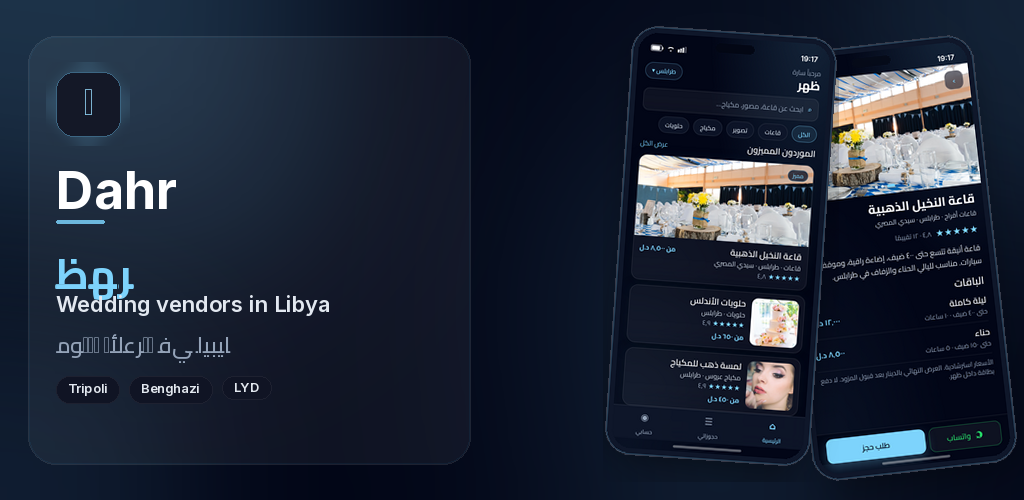
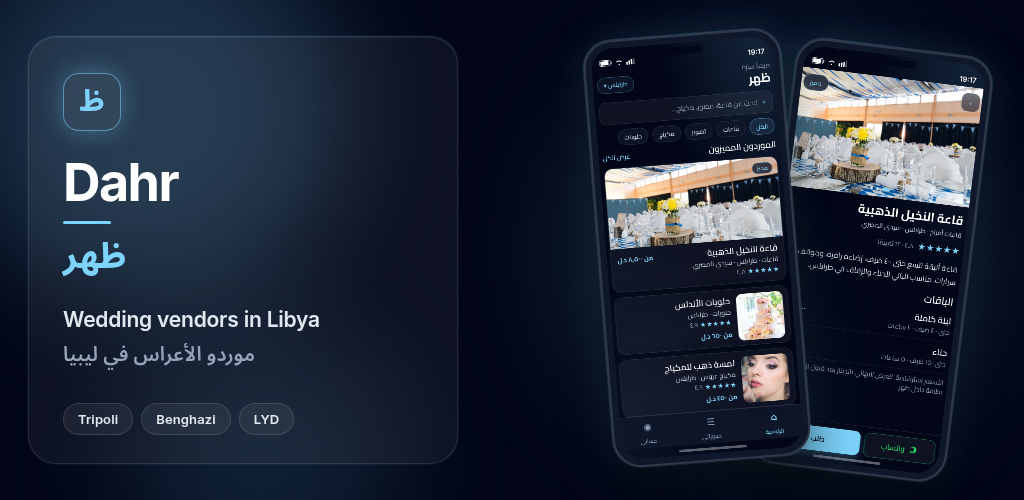
Fix Play feature graphic to locked MD5
Replace re-rendered 1024×500 asset and update documented hash.

diff --git a/docs/store-shots/README.md b/docs/store-shots/README.md
@@ -8,4 +8,4 @@ Full-color store set (Ice Blue UI + vivid venue photos). Design-truth Stitch exp
 - `04-vendor-detail.png` — MD5 `bf9234ef5f5a1296b4e70cd366481180`
 - `05-booking-request.png` — MD5 `515b4232b1da63e06416944dfe5e7d56`
 - `06-vendor-inbox.png` — MD5 `222adacd00b4697ddf4d38dc567bc55d`
-- `play-feature-graphic-1024x500.png` — MD5 `a27f07553fd25be6a5843d6f1cf28726` (Google Play feature graphic 1024×500)
+- `play-feature-graphic-1024x500.png` — MD5 `48a0b496f69cb5b4834767067f7db7f6` (Google Play feature graphic 1024×500)
